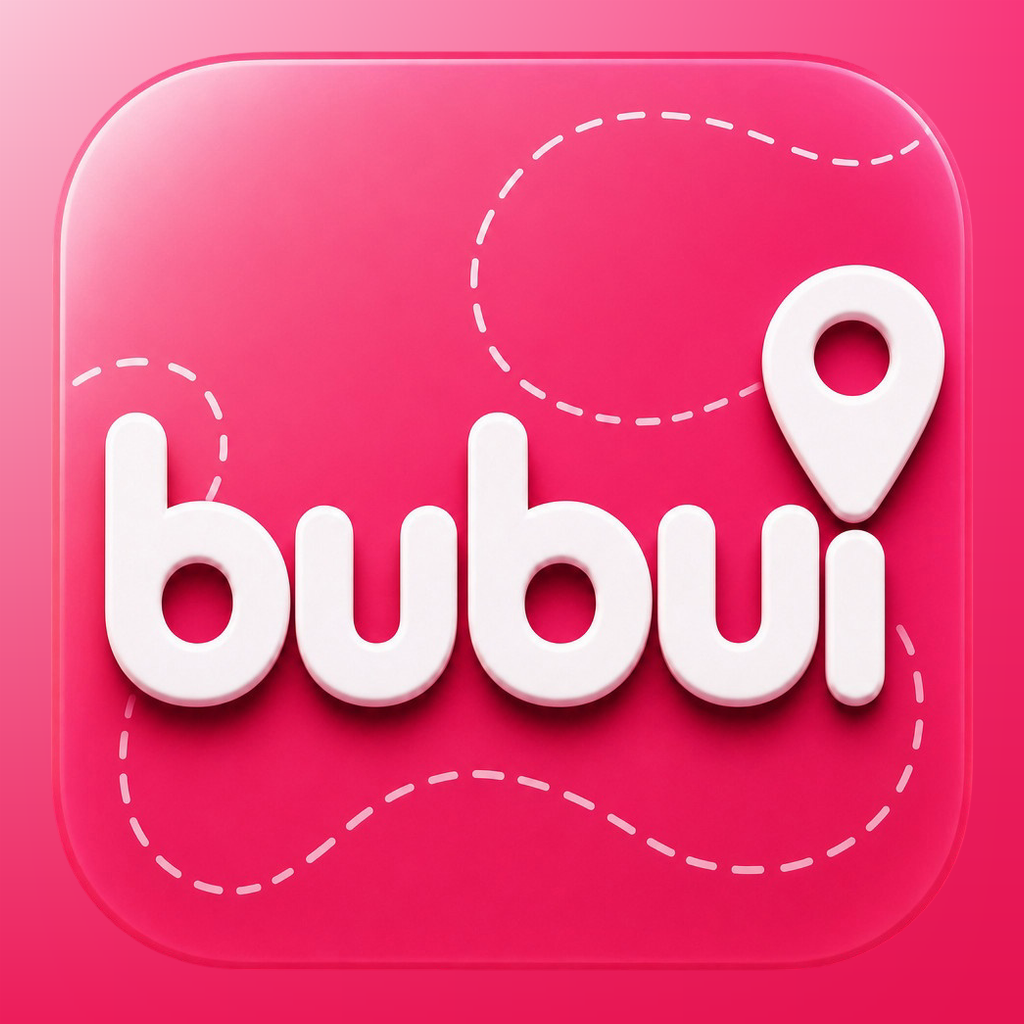
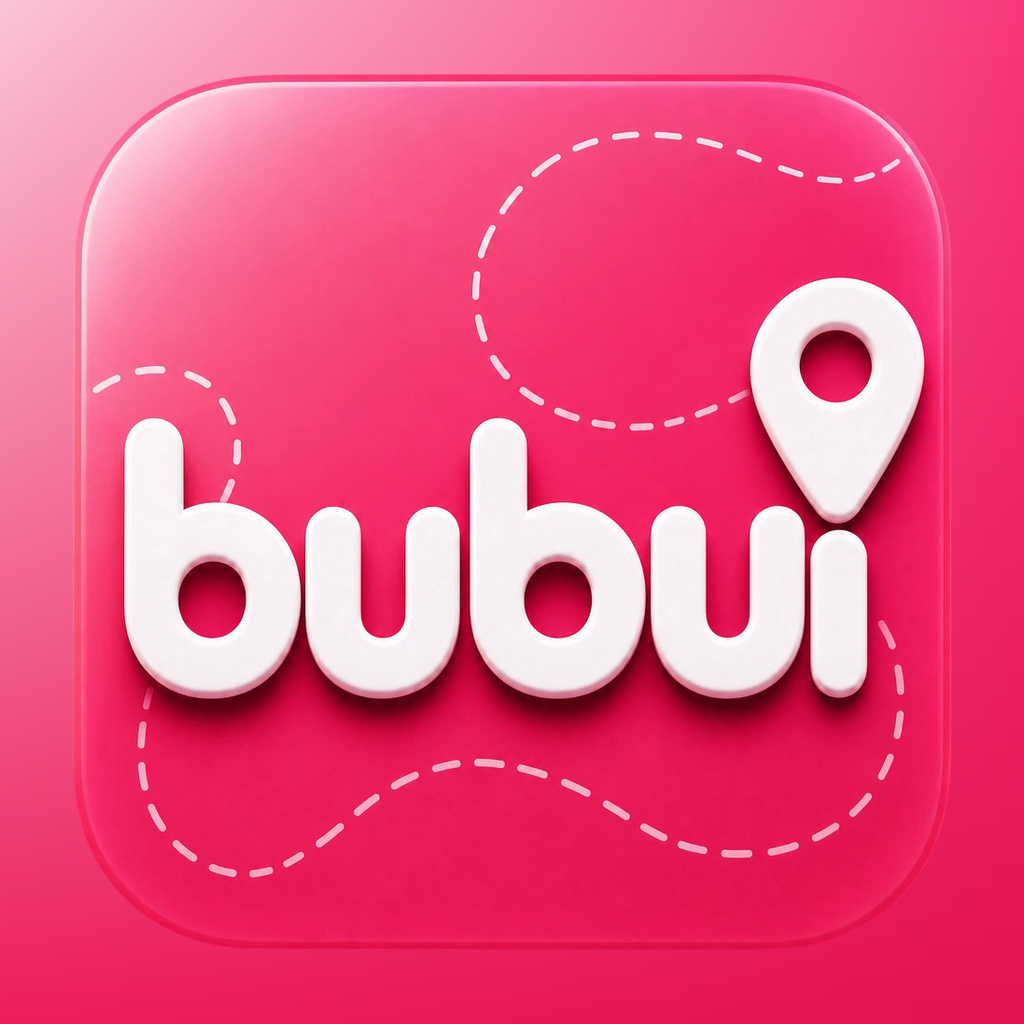
fix(bubui-mobile): tarjeta de estado vacío con tamaño explícito + icono sin recorte
- Feed: la tarjeta "sin cupones" usaba width:100%+aspectRatio, que no
  resuelve dentro del FlatList y la imagen salía gigante/desbordada.
  Pasa a ancho/alto explícitos (igual que el banner promo).
- Icono bubui 5 reducido (zona segura) para que el launcher no lo corte.

https://claude.ai/code/session_0176NZVYVByJWdJ3qvH85bnb

diff --git a/apps/bubui-mobile/src/screens/Feed.tsx b/apps/bubui-mobile/src/screens/Feed.tsx
@@ -18,6 +18,8 @@ type Offer = {
 
 // Banner cuadrado, centrado y acotado: nunca a pantalla completa ni recortado.
 const PROMO_SIZE = Math.min(Dimensions.get("window").width - 64, 300);
+// Tarjeta de estado vacío: ancho explícito (el % no resuelve dentro del FlatList).
+const EMPTY_W = Dimensions.get("window").width - 32;
 
 export function Feed() {
   const nav = useNavigation<any>();
@@ -158,5 +160,5 @@ const styles = StyleSheet.create({
   bizCat: { color: colors.gray, fontSize: 12, marginTop: 2 },
   exp: { fontSize: 12, color: colors.gray, fontWeight: "700" },
   expUrgent: { color: colors.pink },
-  empty: { width: "100%", aspectRatio: 1304 / 832, marginTop: 2 }
+  empty: { width: EMPTY_W, height: Math.round((EMPTY_W * 832) / 1304), alignSelf: "center", marginTop: 2 }
 });
